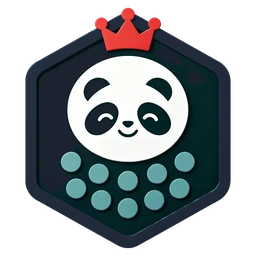
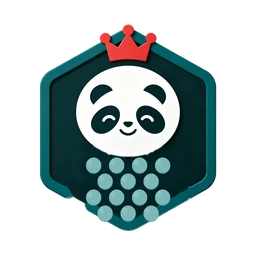
fix(v0.3.71): streak14徽章返工版替换 —— 豆包四修(R1紫残留/R2点阵14颗/R3图标体积/R4竖版青绿)独立验收通过；点阵4-3-4-3=14、四角透明、紫残留0、A9-1024=27.7KB、A14竖版=92.6KB

diff --git a/index.html b/index.html
@@ -855,7 +855,7 @@ button:focus-visible,a:focus-visible,textarea:focus-visible,input:focus-visible{
 var LS_OK = true;
 function lsGet(k){ try{ return localStorage.getItem(k); }catch(e){ LS_OK = false; return null; } }
 function lsSet(k,v){ try{ localStorage.setItem(k, v); return true; }catch(e){ LS_OK = false; return false; } }
-var APP_VERSION = '0.3.70';
+var APP_VERSION = '0.3.71';
 /* v0.3.68 根因修复：APK 原生壳(Capacitor)页面源是 https://localhost，api/* 相对路径
    会打到本地 WebView 服务器(返回 404/HTML)，而非 sinoky.pages.dev Workers ——
    三截图异常(TTS 发音暂不可用/ASR 服务返回异常/进度不同步)全部由此起。

diff --git a/sw.js b/sw.js
@@ -1,5 +1,5 @@
 /* Sinoky service worker — network-first shell cache (kaikou pattern) */
-var CACHE = 'sinoky-v0.3.70';
+var CACHE = 'sinoky-v0.3.71';
 var ASSETS = [
   './',
   './index.html',
